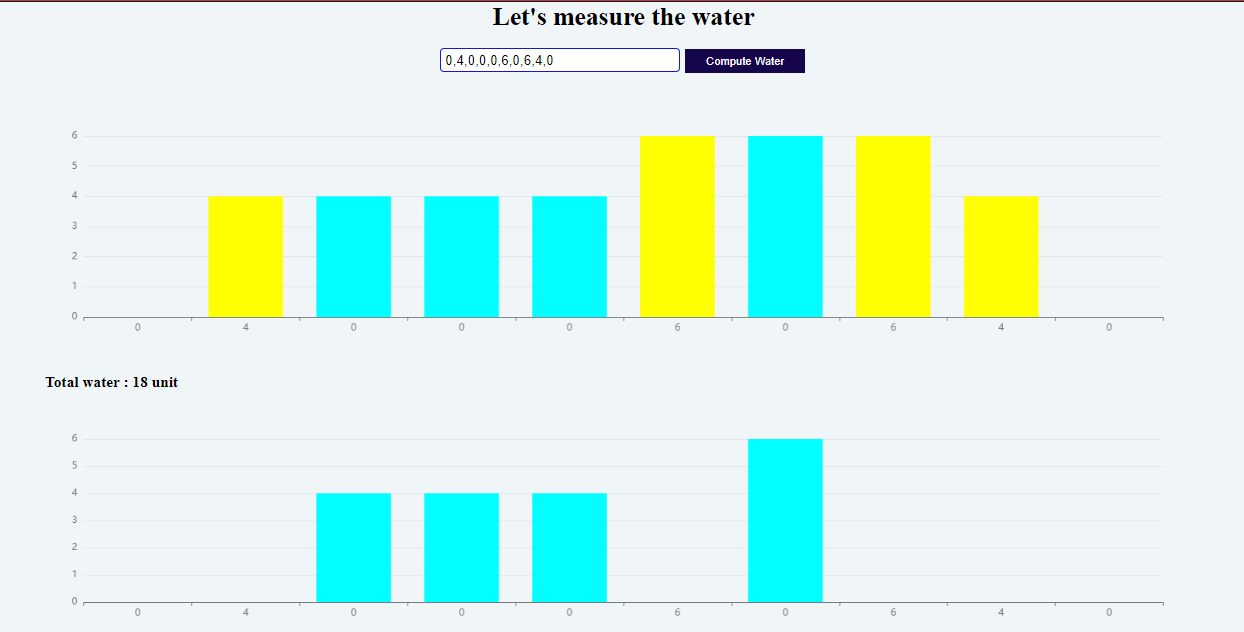
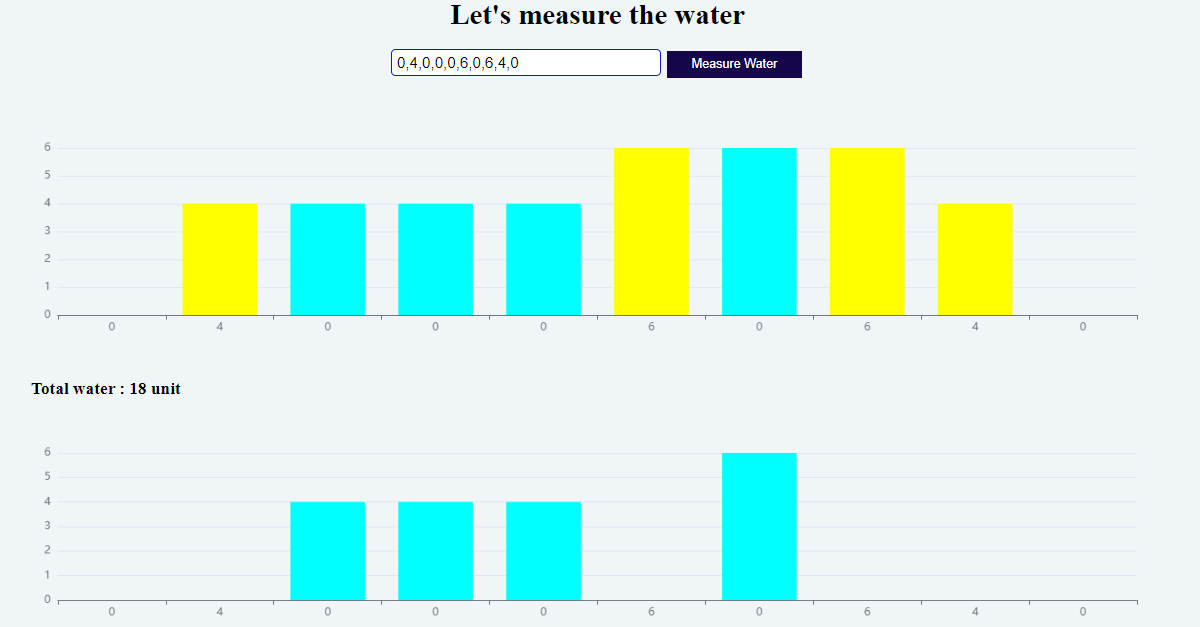
updated

diff --git a/index.html b/index.html
@@ -15,7 +15,7 @@
     <div class="input-div">
         <input type="text" id="resultArray" name="resultArray" placeholder="0,4,0,0,0,6,0,6,4,0">
       
-        <button class="button" id="value-btn" onclick="getValue()">Compute Water</button>
+        <button class="button" id="value-btn" onclick="getValue()">Measure Water</button>
         
     </div>
     <div class="first-chart-div">

diff --git a/README.md b/README.md
@@ -1,3 +1,7 @@
+Water Tank Problem
+
+. Full View
 ![Full App View](/Images/full-img.png)
-![Brick and Water graph](/Images/brick-and-water.png)
+
+. Total water unit
 ![Total water unit](/Images/total-water-unit.png)
